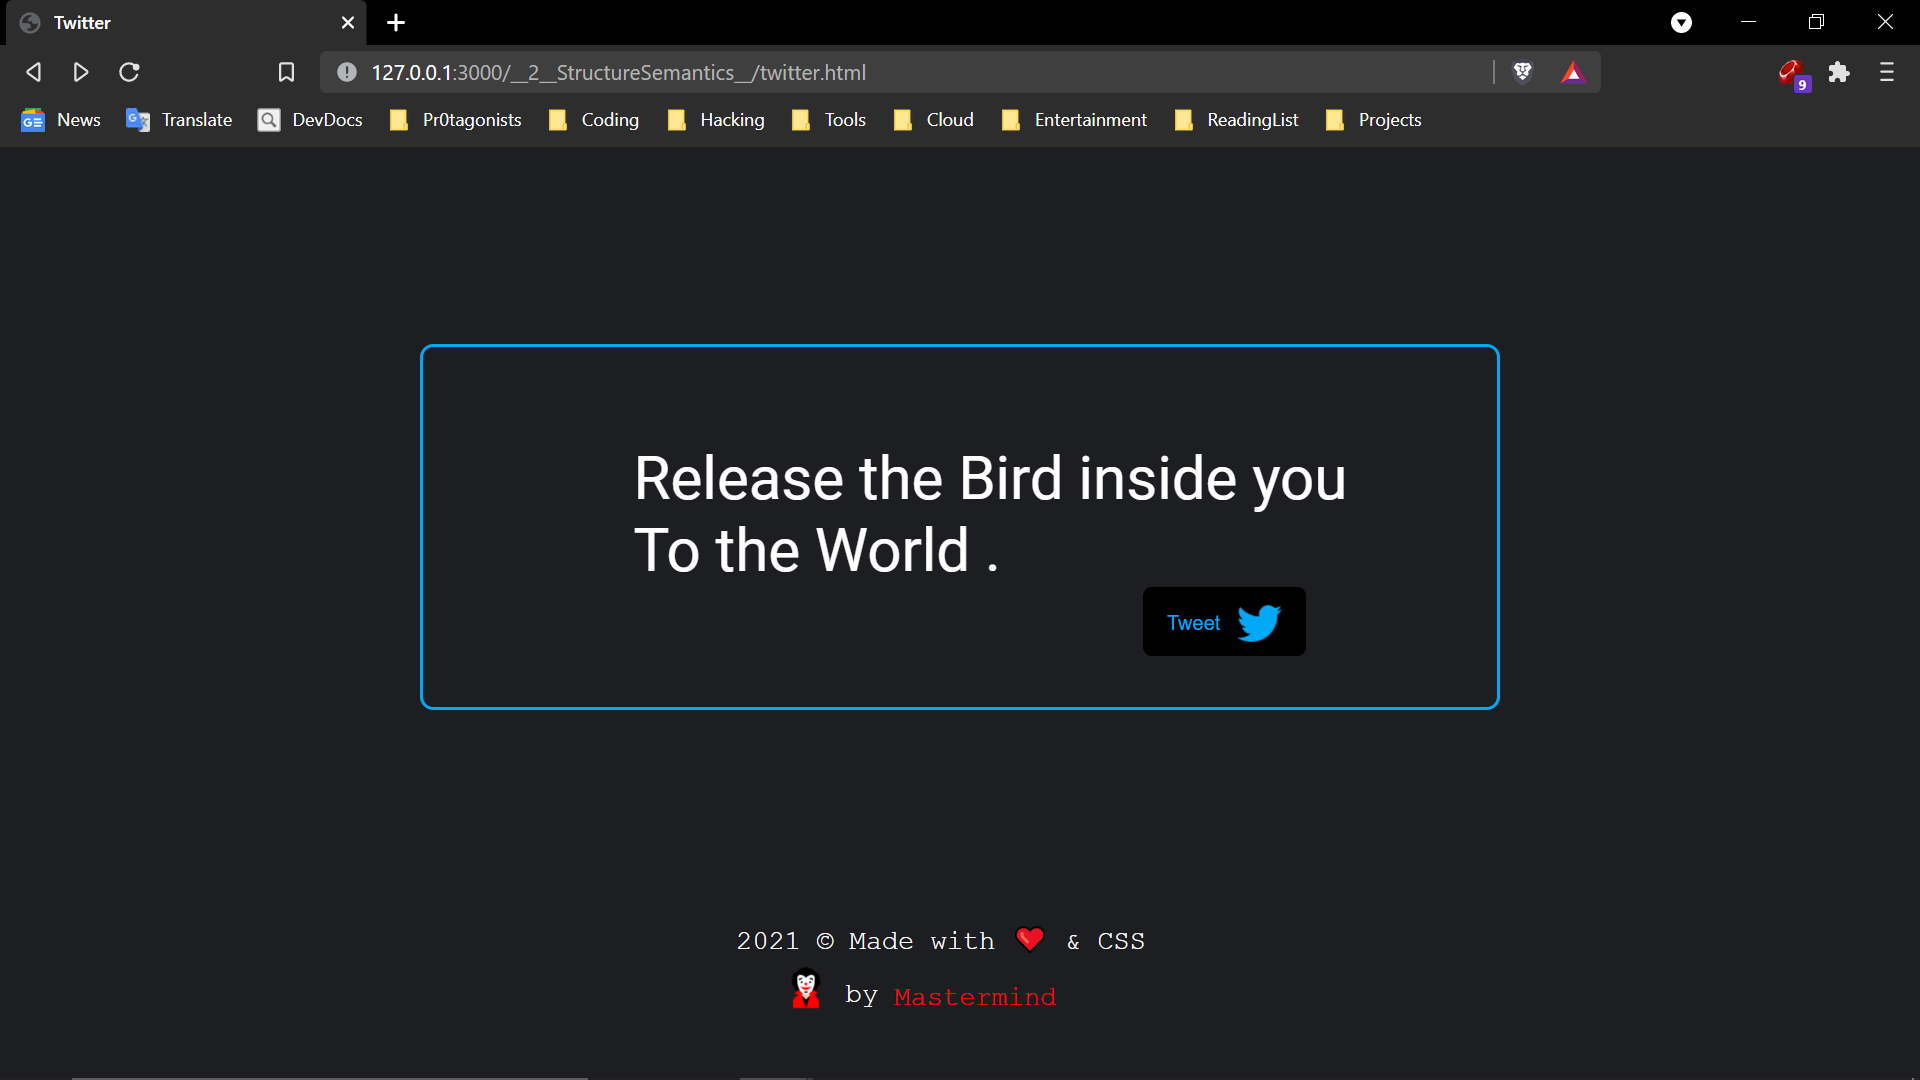
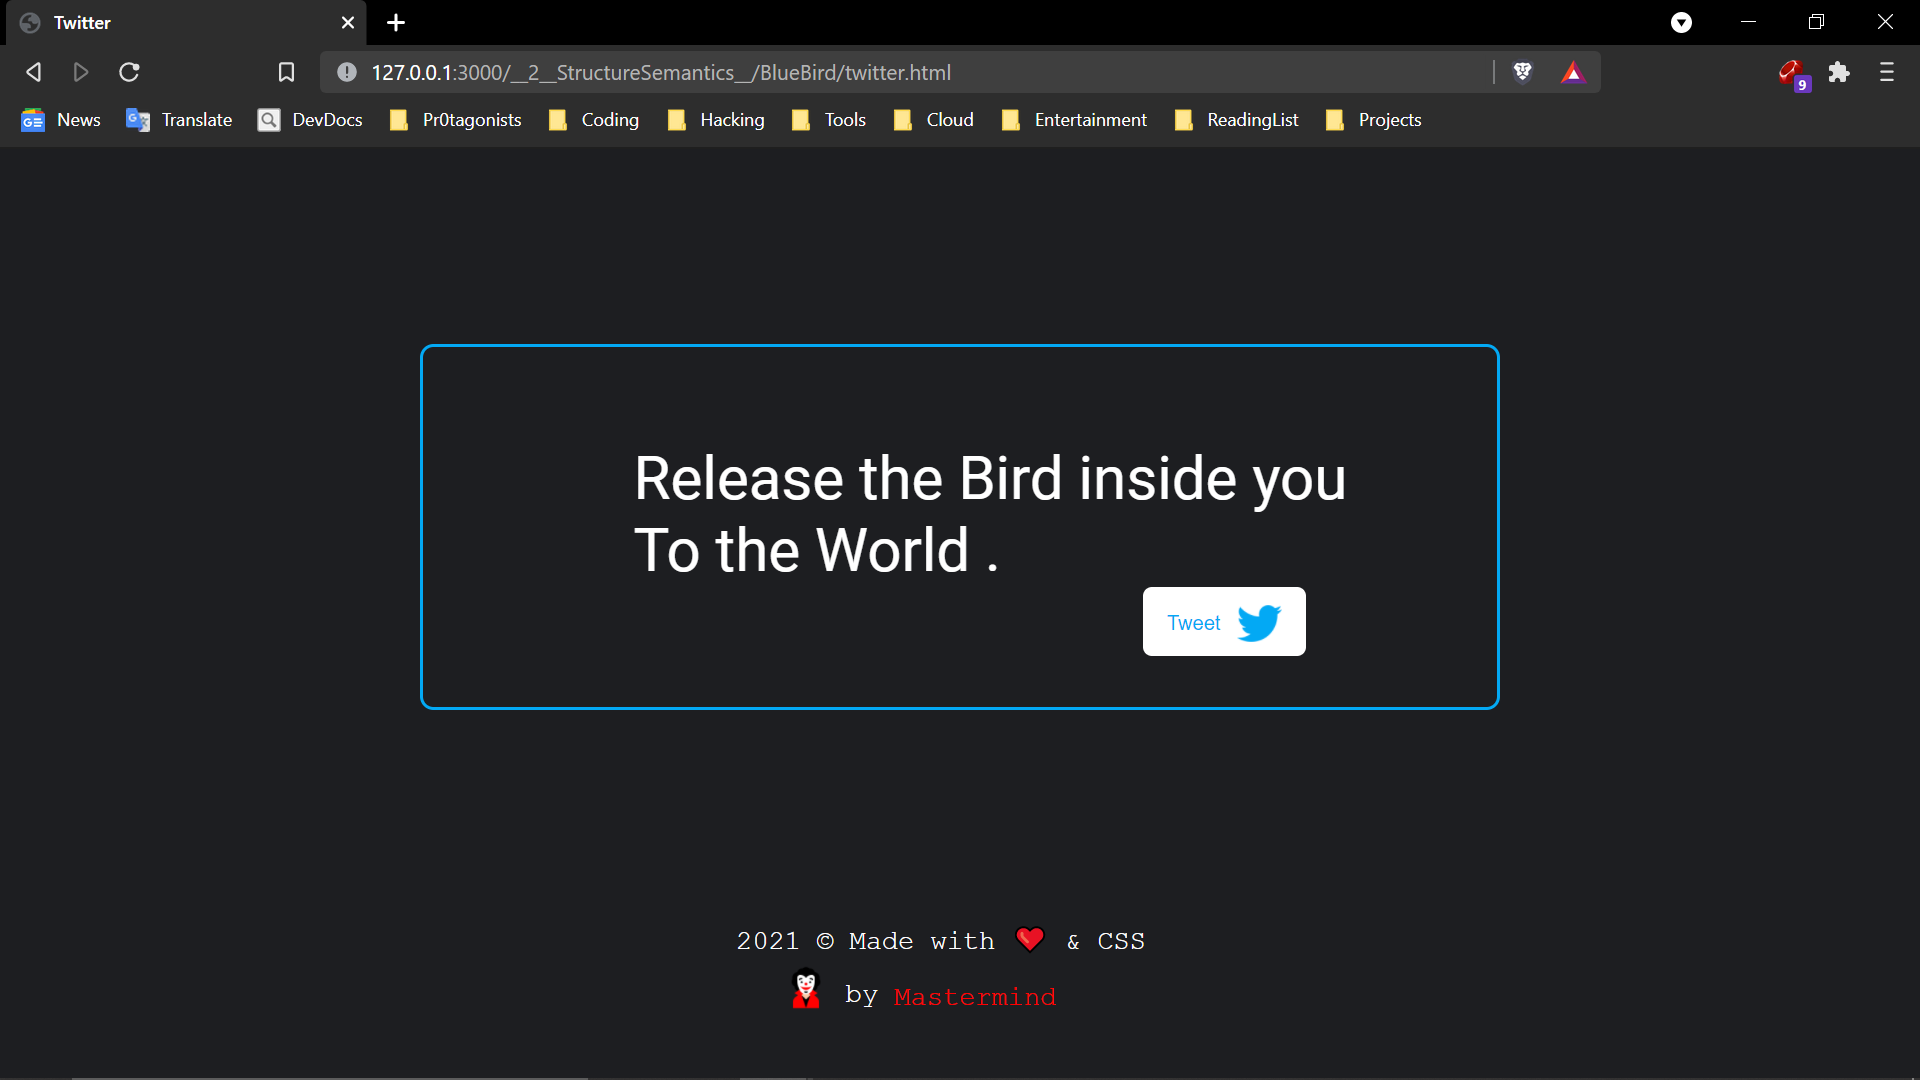
__XR__

Changed region(s): [[0.5938, 0.5194, 0.6875, 0.6111], [0.4062, 0.0611, 0.5, 0.0917]]

diff --git a/__2__StructureSemantics__/BlueBird/twitter.html b/__2__StructureSemantics__/BlueBird/twitter.html
@@ -29,7 +29,7 @@
     left: 80%;
     top: -200px;
     text-decoration: none;
-    background-color: black;
+    background-color: white;
     border: 2px solid #1D1E21;
     border-radius : 8px;
     height: 50px;
